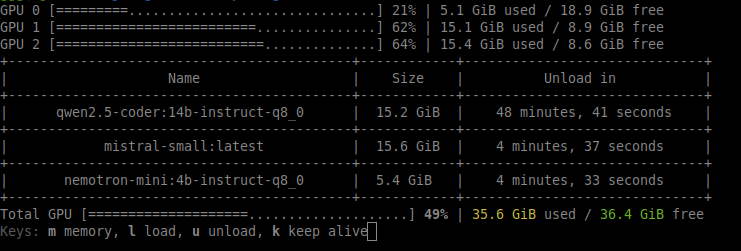
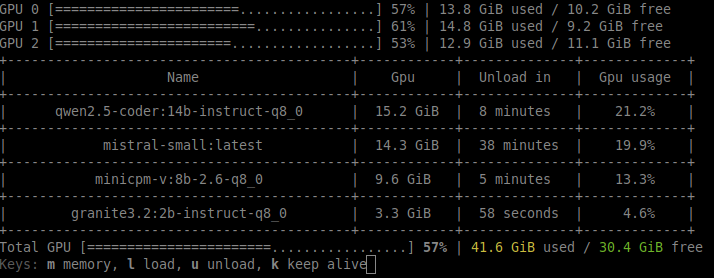
Added model listing and searching functionality
- Added commands to list all available models (`olm -m`) and search for specific models (`olm -m qwen coder`) in README.md
- Updated dispatch.ts to handle new `-m` flag for listing models and added logic for searching models
- Updated interfaces.ts to include ExtendedModelData interface with additional model properties
- Updated ps.ts to use ExtendedModelData and display GPU occupation percentage
- Added functions getTotalGPUMem() and getGPUOccupationPercent() in lib/gpu.ts to calculate total GPU memory and occupation percentage
- Updated package.json to version 0.0.3
- Removed unused imports and updated keepalive.ts, utils.ts, ps.ts accordingly

diff --git a/src/ps.ts b/src/ps.ts
@@ -1,7 +1,7 @@
 import { memTotalStats } from './lib/stats.js';
-import { getGPUMemoryInfo } from './lib/gpu.js';
+import { getGPUMemoryInfo, getGPUOccupationPercent, getTotalGPUMem } from './lib/gpu.js';
 import { formatFileSize, getTimeHumanizedUntil } from './lib/utils.js';
-import { ModelData } from './interfaces.js';
+import { ExtendedModelData, ModelData } from './interfaces.js';
 // @ts-ignore
 import TCharts from "tcharts.js";
 import { ollama } from './state.js';
@@ -17,21 +17,33 @@ async function ps(showGpuInfo = true) {
         return
     }
     const choices: Array<{ name: string, value: string }> = [];
-    const models = new Array<ModelData>();
+    const models = new Array<ExtendedModelData>();
     let hasOffload = false;
     data.forEach((m) => {
-        const modelData: ModelData = {} as ModelData;
-        modelData.name = m.model;
+        const modelData = {} as ExtendedModelData;
+        modelData.name = m.name;
         modelData.size = formatFileSize(m.size);
-        modelData.size_vram = formatFileSize(m.size_vram);
+        modelData.quant = m.details.quantization_level;
+        modelData.params = m.details.parameter_size;
         modelData.size_ram = "0";
         modelData.ram_percentage = "0%";
-        if (m.size > m.size_vram) {
-            modelData.size_ram = formatFileSize(m.size - m.size_vram);
-            modelData.ram_percentage = (((m.size - m.size_vram) / m.size) * 100).toFixed(1) + '%';
-            hasOffload = true;
+        modelData.size_vram = "";
+        modelData.raw_size_vram = 0;
+        modelData.expire = "";
+        modelData.isLoaded = m?.size_vram ? true : false;
+        if (modelData.isLoaded) {
+            //console.log("LM", m);
+            modelData.raw_size_vram = m.size_vram;
+            modelData.size_vram = formatFileSize(m.size_vram);
+            if (m.size > m.size_vram) {
+                modelData.size_ram = formatFileSize(m.size - m.size_vram);
+                modelData.ram_percentage = (((m.size - m.size_vram) / m.size) * 100).toFixed(1) + '%';
+                hasOffload = true;
+            }
+            modelData.expire = getTimeHumanizedUntil(m.expires_at.toString());
+        } else {
+            //console.log("M", m)
         }
-        modelData.expire = getTimeHumanizedUntil(m.expires_at.toString());
         models.push(modelData);
         choices.push({
             name: m.name,
@@ -45,16 +57,28 @@ async function ps(showGpuInfo = true) {
     // models
     const { Table } = TCharts;
     const table = new Table(0.2);
-    const dt = new Array<string>("Name", "Size", "Unload in");
+    const dt = new Array<string>("Name", "Gpu");
+    let totalGpuMem = 0;
     if (hasOffload) {
         dt.push("Ram")
     }
+    dt.push("Unload in");
+    dt.push("Gpu usage");
+    totalGpuMem = getTotalGPUMem();
+    models.sort((a, b) => b.raw_size_vram - a.raw_size_vram);
     const tdata = new Array<Array<string>>(dt);
     for (const m of models) {
-        const mdata = [m.name, m.size, m.expire];
+        let name = m.name;
+        let gpuOccupation = "";
+        name = m.name;
+        gpuOccupation = `${getGPUOccupationPercent(totalGpuMem, m.raw_size_vram)}%`;
+        const size = m.isLoaded ? m.size_vram : m.size;
+        const mdata = [name, size];
         if (hasOffload) {
             mdata.push(m.ram_percentage)
         }
+        mdata.push(m.expire);
+        mdata.push(gpuOccupation);
         tdata.push(mdata);
     }
     table.setData(tdata);

diff --git a/src/dispatch.ts b/src/dispatch.ts
@@ -13,7 +13,7 @@ import { unload } from './unload.js';
 import { gpus, initState, ollama } from './state.js';
 import { keepAlive } from './keepalive.js';
 import { ListResponse } from 'ollama/dist';
-import { valueOptions } from './lib/options.js';
+import { models } from './models.js';
 
 async function ollamaPsOrQuit(): Promise<ListResponse> {
     const ps = await ollama.ps();
@@ -27,6 +27,7 @@ async function ollamaPsOrQuit(): Promise<ListResponse> {
 async function main(useDefault = false) {
     let args = new Array<string>();
     const searchArgs = new Array<string>();
+    let searchAction: "models" | "load" = "load";
     let cmd: Cmd = "default";
     if (argv.length > 2) {
         args.push(...argv.slice(2));
@@ -69,6 +70,9 @@ async function main(useDefault = false) {
                 case "-l":
                     cmd = "load";
                     break;
+                case "-m":
+                    cmd = "models";
+                    break;
                 case "-u":
                     cmd = "unload";
                     break;
@@ -79,7 +83,15 @@ async function main(useDefault = false) {
                     cmd = "keepAlive";
                     break;
                 default:
+                    //console.log("PCM", cmd);
                     if (cmd == "serve") { break }
+                    else if (cmd == "models") {
+                        searchAction = "models";
+                        break;
+                    } else if (cmd == "load") {
+                        searchAction = "load";
+                        break;
+                    }
                     if (a.startsWith("-")) {
                         console.error(`unknown flag ${a}`);
                         return;
@@ -103,6 +115,9 @@ async function main(useDefault = false) {
         case "mem":
             modelsMemChart(await ollamaPsOrQuit());
             break;
+        case "models":
+            await models(args);
+            break;
         case "load":
             await load(args);
             break;
@@ -111,7 +126,14 @@ async function main(useDefault = false) {
             await unload();
             break;
         case "search":
-            await load(args);
+            if (!searchAction) {
+                throw new Error("no search action")
+            }
+            if (searchAction == "load") {
+                await load(args);
+            } else {
+                await models(args);
+            }
             break;
         case "keepAlive":
             await ollamaPsOrQuit();

diff --git a/src/lib/gpu.ts b/src/lib/gpu.ts
@@ -2,6 +2,28 @@ import { execSync } from 'node:child_process';
 import { GPUCard, TotalMemoryInfo } from '../interfaces.js';
 import { gpus } from '../state.js';
 
+
+function getTotalGPUMem(): number {
+    const gpuInfo = execSync('nvidia-smi --query-gpu=index,name,memory.total,memory.used --format=csv,noheader,nounits')
+        .toString()
+        .trim()
+        .split('\n');
+
+    // Process each GPU's information
+    let totalMemoryBytes = 0;
+    gpuInfo.map(gpu => {
+        const [index, name, memoryTotalMiB, memoryUsedMiB] = gpu.split(',');
+        const memoryTotalBytesCard = Math.round(Number(memoryTotalMiB) * 1048576);
+        totalMemoryBytes += memoryTotalBytesCard
+    });
+    return totalMemoryBytes
+}
+
+function getGPUOccupationPercent(totalGPUMem: number, memOccupation: number): number {
+    const p = parseFloat(((memOccupation / totalGPUMem) * 100).toFixed(1));
+    return p
+}
+
 /**
  * Gets current and total memory capacity for all NVIDIA GPUs in GB
  * @returns {Object} Object containing array of GPU information and total memory details
@@ -77,4 +99,8 @@ function getGPUMemoryInfo(): { cards: GPUCard[], totalMemory: TotalMemoryInfo } 
     }
 }
 
-export { getGPUMemoryInfo }
+export {
+    getGPUMemoryInfo,
+    getGPUOccupationPercent,
+    getTotalGPUMem,
+}

diff --git a/src/interfaces.ts b/src/interfaces.ts
@@ -32,6 +32,13 @@ interface ModelData {
     expire: string;
 }
 
+interface ExtendedModelData extends ModelData {
+    isLoaded: boolean;
+    raw_size_vram: number;
+    params: string;
+    quant: string;
+}
+
 interface ParsedOptions {
     flags: string[];
     [key: string]: number | string[]; // Allow both numbers and the 'flags' array
@@ -45,7 +52,7 @@ interface KeyPress {
     shift: boolean;
 }
 
-type Cmd = "serve" | "env" | "load" | "unload" | "mem" | "search" | "keepAlive" | "default";
+type Cmd = "serve" | "env" | "load" | "unload" | "mem" | "search" | "keepAlive" | "models" | "default";
 
 export {
     GPUCard,
@@ -55,4 +62,5 @@ export {
     ModelData,
     Cmd,
     KeyPress,
+    ExtendedModelData,
 }

diff --git a/src/lib/utils.ts b/src/lib/utils.ts
@@ -15,7 +15,10 @@ function getTimeHumanizedUntil(futureDateString: string): string {
     if (diffInMilliseconds < 0) {
         throw new Error("The provided date is in the past.");
     }
-    const res = humanizeDuration(diffInMilliseconds, { units: ["d", "h", "m", "s"], round: true });
+    if (diffInMilliseconds <= 60000) {
+        return humanizeDuration(diffInMilliseconds, { units: ["d", "h", "m", "s"], round: true });
+    }
+    const res = humanizeDuration(diffInMilliseconds, { units: ["d", "h", "m"], round: true });
     return res
 }
 

diff --git a/src/keepalive.ts b/src/keepalive.ts
@@ -1,6 +1,4 @@
 import { checkbox, input } from '@inquirer/prompts';
-import { memTotalStats, modelsMemChart } from './lib/stats.js';
-import { getGPUMemoryInfo } from './lib/gpu.js';
 import { ollama } from './state.js';
 import { ps } from './ps.js';
 

diff --git a/README.md b/README.md
@@ -28,6 +28,10 @@ chart (or use the `olm -mem` command).
 
 ## Models
 
+To list all the available models: `olm -m`.
+
+To search for a model: `olm -m qwen coder`
+
 ### Load models
 
 Use the `-l` flag to list all the models and select some to load. Output:
